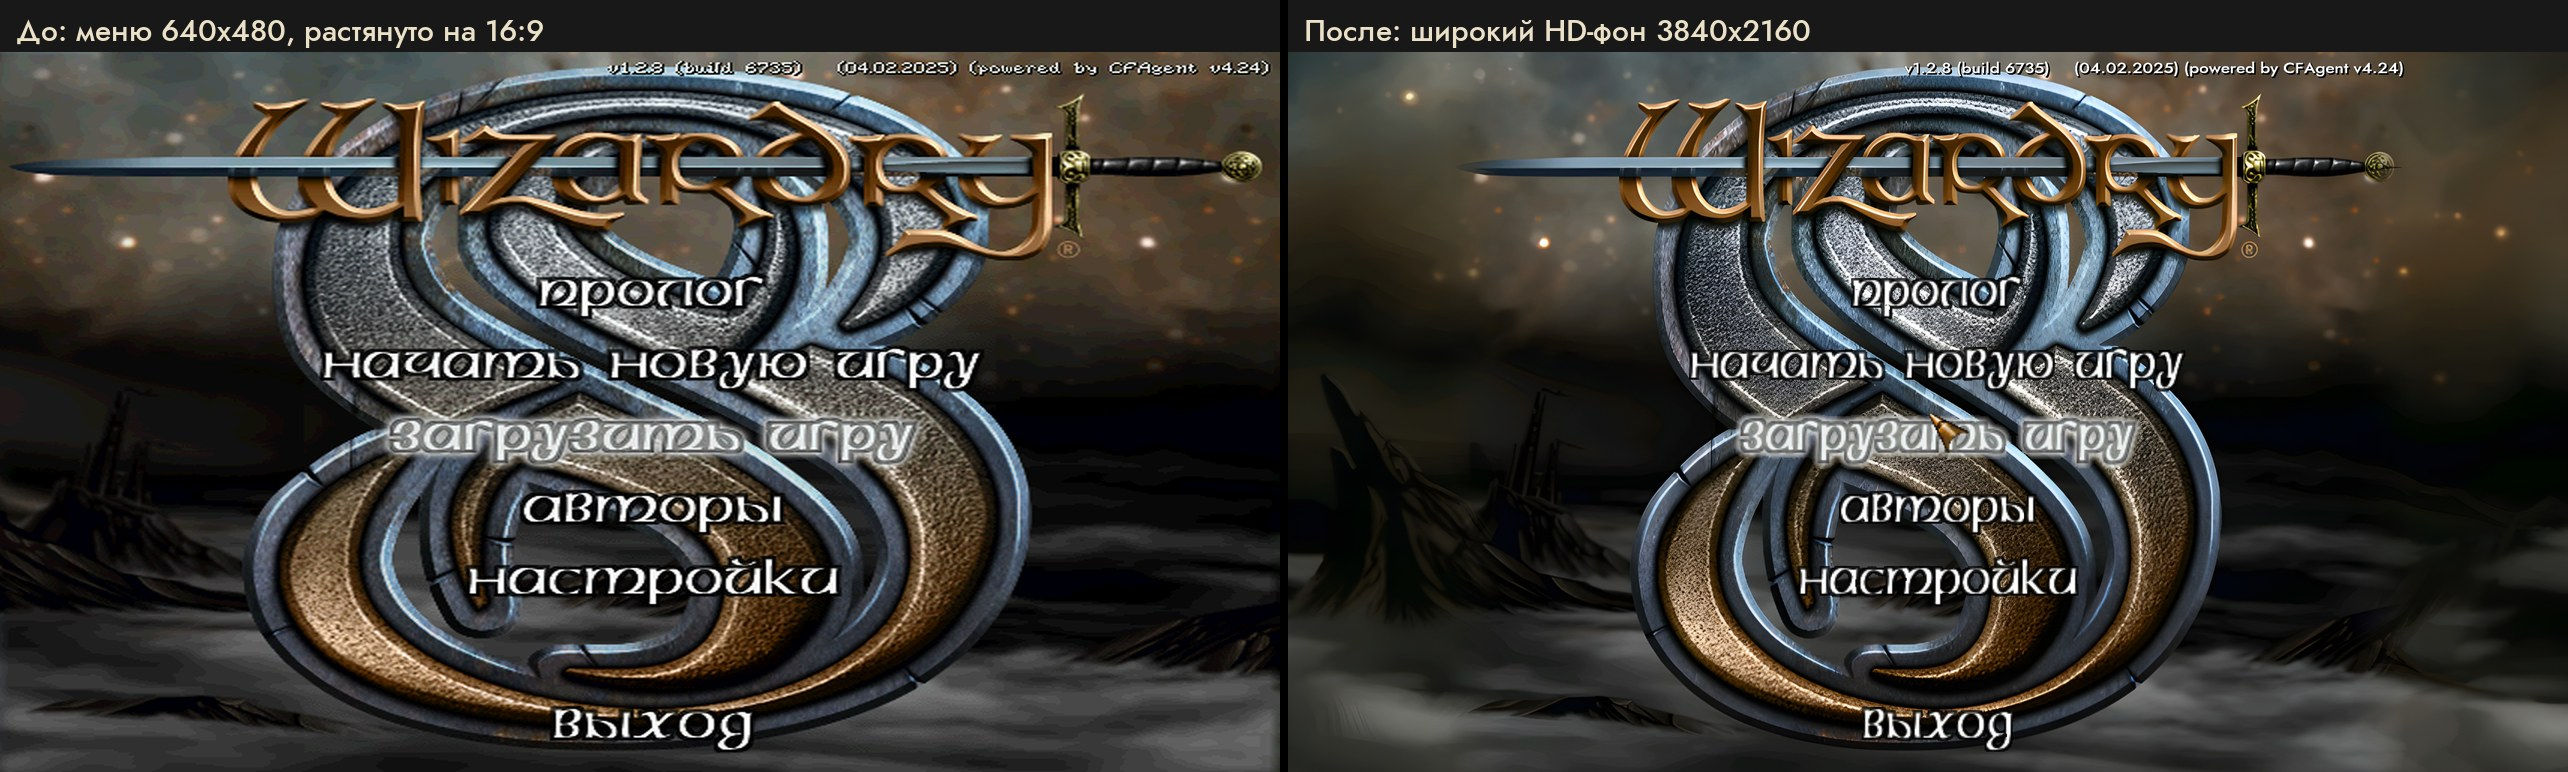
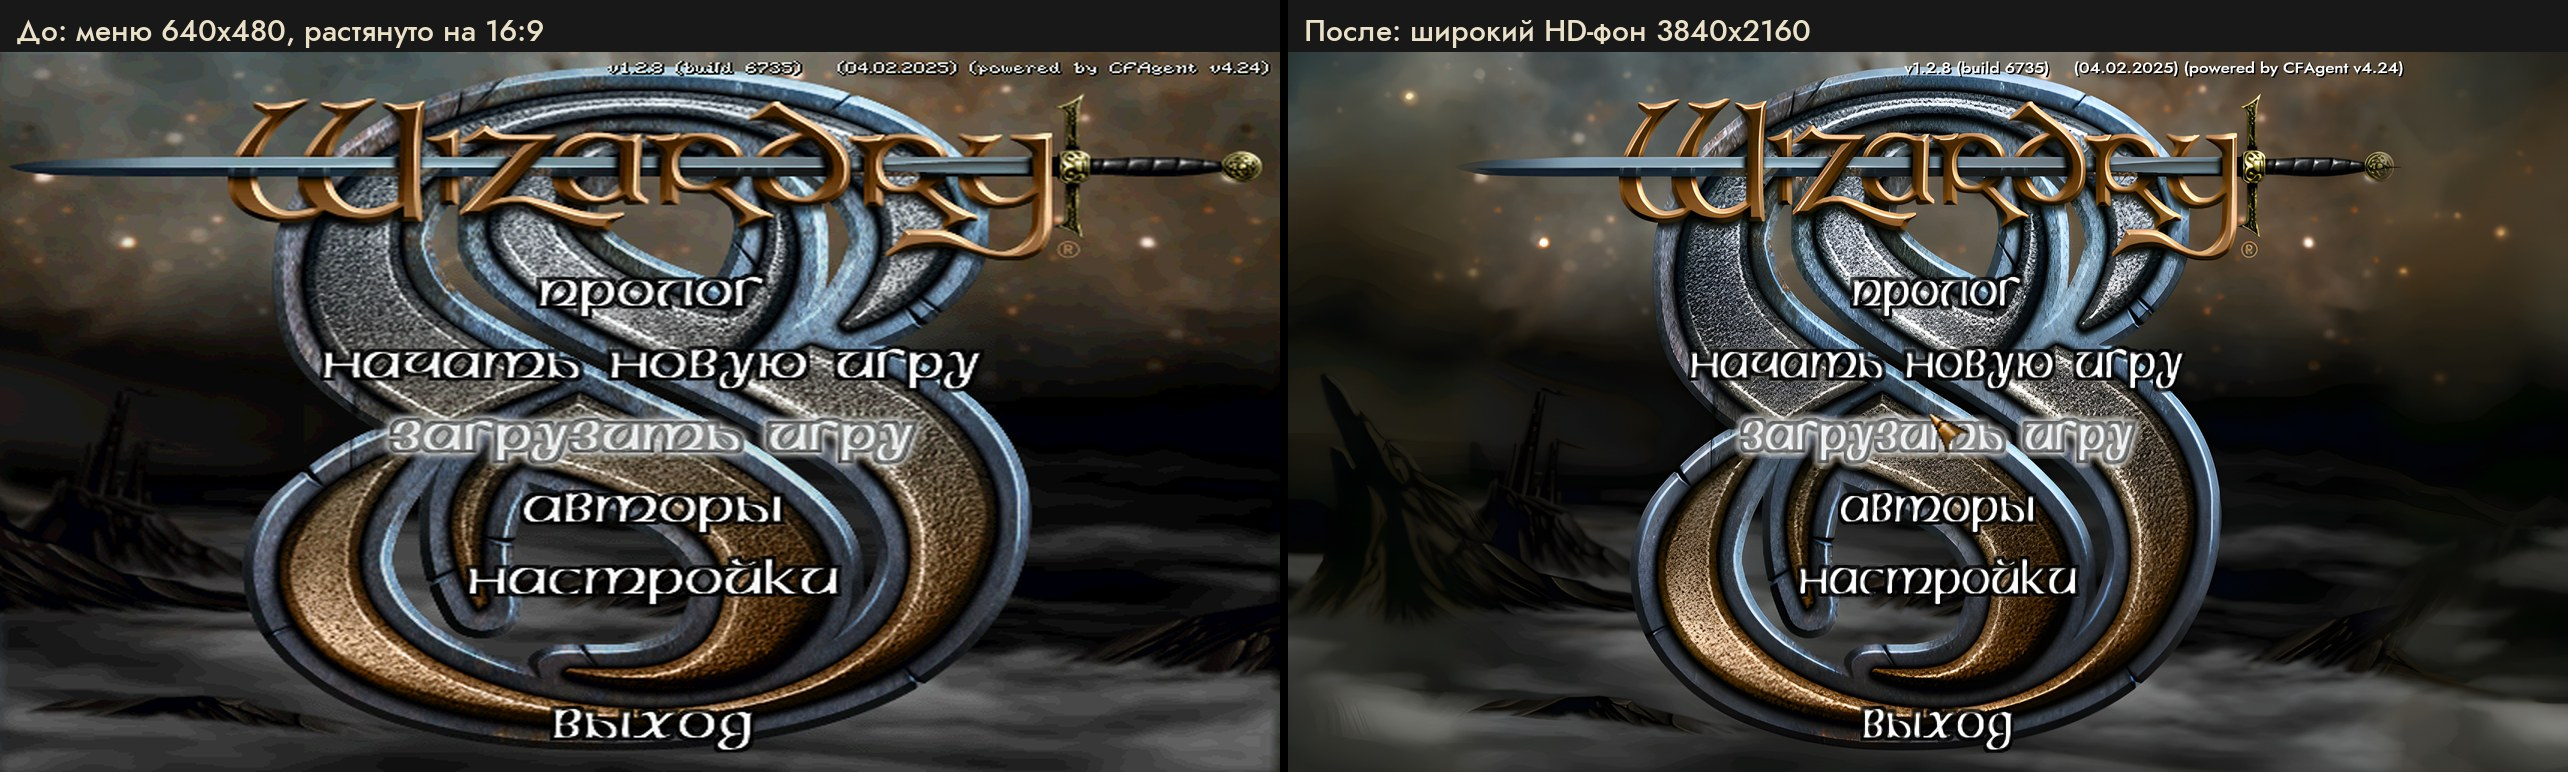
HD menu captions in the game's language
- payload/wiz8hd_ui/captions/rus|eng: 62 pictures each (main menu items in
  four states, options buttons, save/load buttons), xBR from the Russian
  (RUS.SLF) and English (DATA.SLF) originals; the main menu ones are cut out
  of their old 640x480 background (wizardry8-hdui cc22529).
- install.ps1: puts the Russian set into wiz8hd_ui\sti when Data\RUS.SLF is
  there, else the English one (with the interface; -NoInterface leaves both
  out); Put-Dir takes a destination.
- Update-Payload.ps1 copies both sets; VERSION.txt counts them.
- Test-Roundtrip.ps1: section F (Russian with RUS.SLF, English without,
  byte-identical uninstall each time). All checks pass.
- README.md / README.en.md, docs: the main menu pair shows the HD captions;
  close-ups of the main menu captions and the options buttons.

diff --git a/tools/make_compare.py b/tools/make_compare.py
@@ -78,6 +78,8 @@ SCREENS = {
         "battle": ("До: бой с крабами", "После: тот же бой"),
         "items": ("До: предметы 640x480, увеличены до 4K", "После: предметы в HD (xBR), пиксели 4K 1:1"),
         "portraits": ("До: колонка портретов", "После: HD-портреты, рамки и полоски"),
+        "captions": ("До: надписи главного меню из игры", "После: надписи в HD (xBR), под ними HD-фон"),
+        "buttons": ("До: кнопки настроек из игры", "После: кнопки в HD (xBR)"),
     },
     "_en": {
         "inventory": ("Before: inventory stretched to 16:9", "After: 4:3 in the middle, stone beside, all HD"),
@@ -88,13 +90,15 @@ SCREENS = {
         "battle": ("Before: a fight with crabs", "After: the same fight"),
         "items": ("Before: items, 640x480 scaled to 4K", "After: HD items (xBR), 4K pixels 1:1"),
         "portraits": ("Before: the portrait column", "After: HD portraits, frames and bars"),
+        "captions": ("Before: the game's main menu captions", "After: HD captions (xBR) over the HD picture"),
+        "buttons": ("Before: the game's options buttons", "After: HD buttons (xBR)"),
     },
 }
 SHOT = {"inventory": "inv", "skills": "skills", "spells": "spells", "map": "map", "rest": "rest", "battle": "battle"}
 box = (1300, 1560, 2600, 2160)
 for sfx, t in LABELS.items():
     # menu: without the mod the game's own 640x480 frame is stretched over the 16:9 screen
-    pair((shot("menu2d_2d.png"), t[0]), (shot("fin_menu.jpg"), t[1]), f"compare_menu{sfx}.jpg", (1280, 720))
+    pair((shot("menu2d_2d.png"), t[0]), (shot("cap2_menu.jpg"), t[1]), f"compare_menu{sfx}.jpg", (1280, 720))
     # world: same place, same party
     pair((shot("ex_off_hud.jpg"), t[2]), (shot("ex_on_hud.jpg"), t[3]), f"compare_game{sfx}.jpg", (1280, 720))
     # text close-up at native 4K pixels
@@ -109,3 +113,8 @@ for sfx, t in LABELS.items():
               s["items"], 640)
     crop_pair("ex_off_hud.jpg", "ex_on_hud.jpg", (0, 100, 128, 358), "stretch", "left", f"compare_portraits{sfx}.jpg",
               s["portraits"], 900)
+    # captions with words on them, with the mod both times (cap_* before the HD captions, cap2_* with them)
+    crop_pair("cap_menu.jpg", "cap2_menu.jpg", (115, 133, 382, 300), "center", "center", f"compare_captions{sfx}.jpg",
+              s["captions"], 700)
+    crop_pair("cap_load.jpg", "cap2_load.jpg", (0, 289, 160, 478), "center", "center", f"compare_buttons{sfx}.jpg",
+              s["buttons"], 760)

diff --git a/README.en.md b/README.en.md
@@ -35,6 +35,12 @@ Close-ups, 4K pixels 1:1:
 
 ![Portrait column close-up](docs/compare_portraits_en.jpg)
 
+Menu captions (left: with the mod, but the captions still the game's own):
+
+![Main menu captions close-up](docs/compare_captions_en.jpg)
+
+![Options buttons close-up](docs/compare_buttons_en.jpg)
+
 | | Steam version as is | After installing |
 |---|---|---|
 | Resolution | 800x600, 16-bit (Glide through nGlide) | your monitor's native resolution, 32-bit (DirectX through dgVoodoo2) |
@@ -45,6 +51,7 @@ Close-ups, 4K pixels 1:1:
 | Menu, loading and camp backgrounds | 640x480, stretched | wide 16:9 HD backgrounds |
 | Character portraits | 640x480, blurry | HD in all three sizes, with blinking and talking |
 | Frames, buttons, icons, items, spells, automap | 640x480, blurry | HD pictures (classic xBR pixel-art scaler, no AI) |
+| Main menu captions, options and save/load buttons | 640x480, blurry | HD, in the game's language (Russian or English) |
 | Inventory, party, character creation, spell panel | black bars or a stretched edge at the sides | the game's own stone at the sides, in HD |
 | Location texts (diaries, signs) in the Russian version | in English | in Russian (Fan Patch texts) |
 | 3dfx logo at startup | yes | no |
@@ -114,7 +121,7 @@ From PowerShell: `powershell -ExecutionPolicy Bypass -File .\install.ps1 [option
 | `-WhatIf` | show what would be done without changing anything |
 | `-NoBackgrounds` | no HD backgrounds (−71 MB) |
 | `-NoPortraits` | no HD portraits (−116 MB) |
-| `-NoInterface` | no HD interface pictures: frames, buttons, icons, items (−258 MB) |
+| `-NoInterface` | no HD interface pictures or menu captions: frames, buttons, icons, items (−258 MB) |
 | `-NoRusTexts` | keep the location texts in English in a Russian game |
 | `-NoHdUi` | only the resolution and borderless screen, no HD interface |
 | `-ResetConfig` | replace an existing `wiz8hd.ini` / `dgVoodoo.conf` with the defaults |
@@ -135,6 +142,7 @@ with `-ResetConfig`.
 | Stone beside full-screen screens | `wiz8hd_bg\_sides.png` |
 | HD portraits (982 frames: small, medium, large, blinking and talking) | `wiz8hd_ui\sti\PORTRAITS\` |
 | HD interface pictures (4765 frames: frames, buttons, icons, items, spells, automap, character creation) | the other folders of `wiz8hd_ui\sti\` |
+| HD menu captions (62 frames: main menu, options, save/load buttons) in the game's language: Russian when `Data\RUS.SLF` is there, English otherwise | `wiz8hd_ui\sti\OPTIONS\` (from `payload\wiz8hd_ui\captions\rus` or `eng`) |
 | Russian location texts (only with `Data\RUS.SLF`): diaries, signs, bookshelves | `Data\Messages\*.MSG`, built from the Fan Patch's Russian texts in `Data\FanPatch.Dat` |
 | No 3dfx logo | registry `HKCU\Software\Zeus Software\nGlide2`, `Splash=0` |
 | Shortcut | "Wizardry 8 (Fan Patch 4K)" on the desktop → `Wiz8_v128.exe` |
@@ -204,8 +212,9 @@ To remove the mod by hand, delete these files (or run `uninstall.cmd`); the game
   on the same terms. Without them: `-NoPortraits`.
 - HD interface pictures: the game's own pictures, upscaled with the classic pixel-art scaler xBR (an ffmpeg filter,
   no neural networks); the dark edge they were anti-aliased with against black is partly turned into
-  transparency. Shared on the same terms. Without them: `-NoInterface`. The Russian captions on the options menu
-  buttons stay original.
+  transparency. Shared on the same terms. Without them: `-NoInterface`. The pictures with words on them (main menu,
+  options buttons) are made separately from the Russian (`RUS.SLF`) and English (`DATA.SLF`) originals; the main
+  menu captions are cut out of their old 640x480 background, so the wide HD picture shows under them.
 - `wiz8hd.asi` — the built mod; its source is in a separate repository, `wizardry8-hdui` (not published yet).
 - Wizardry 8 was developed by Sir-Tech Canada; Wizardry is a trademark of its rights holder. This project is not
   affiliated with the rights holder, Steam or the Fan Patch authors.
